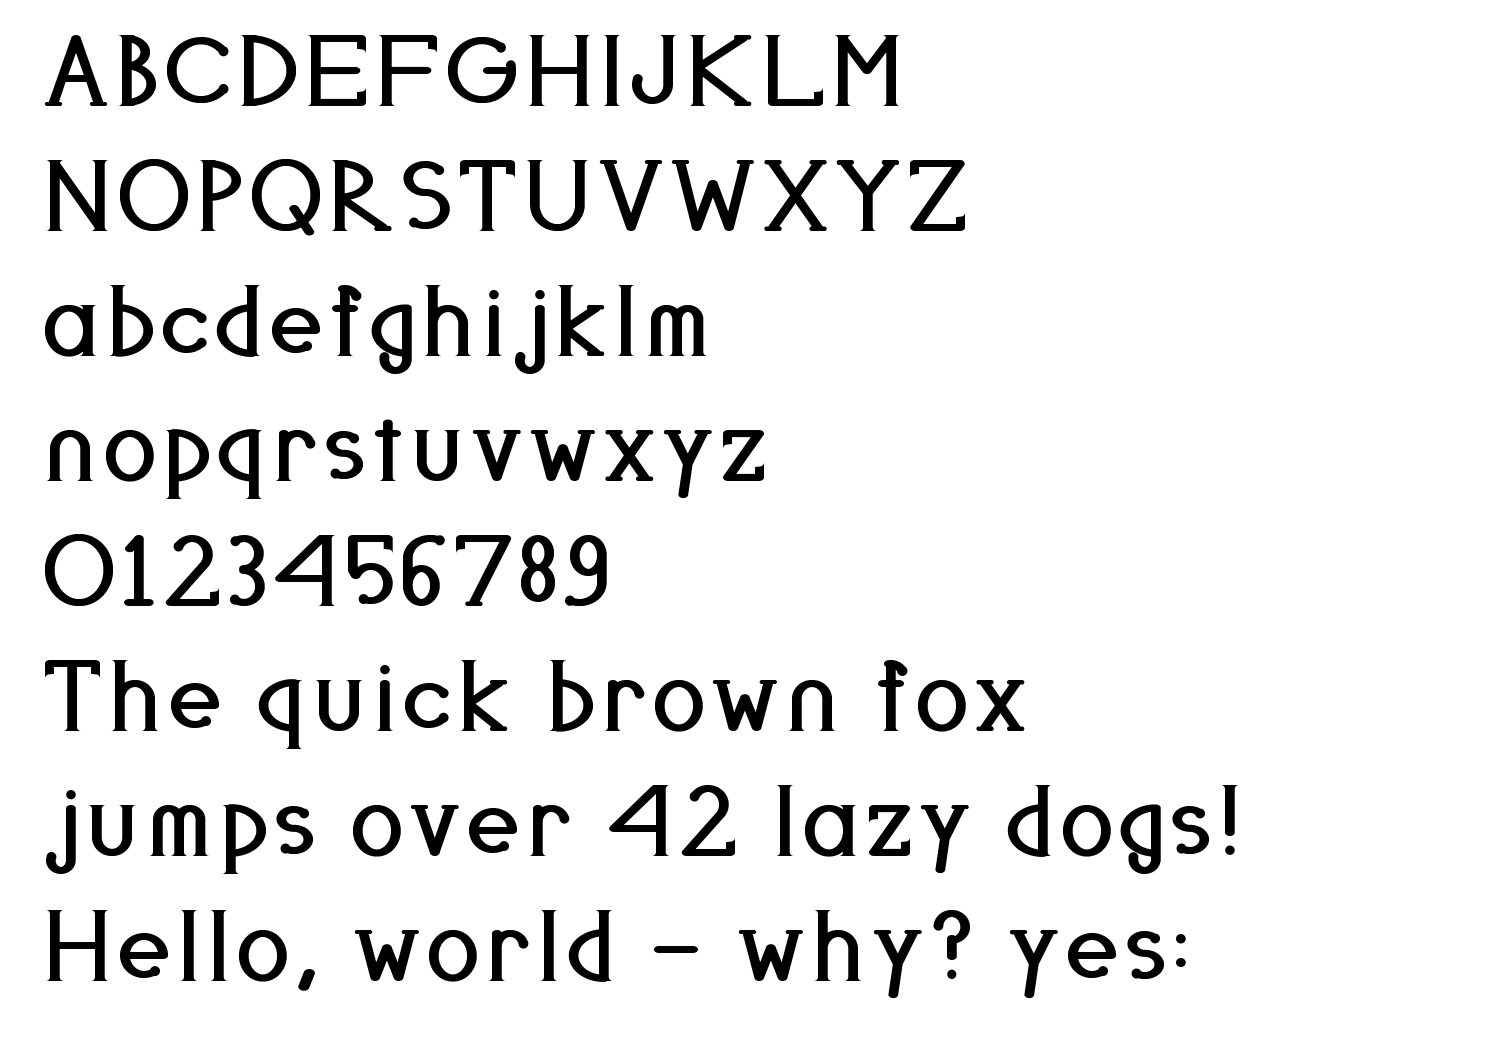
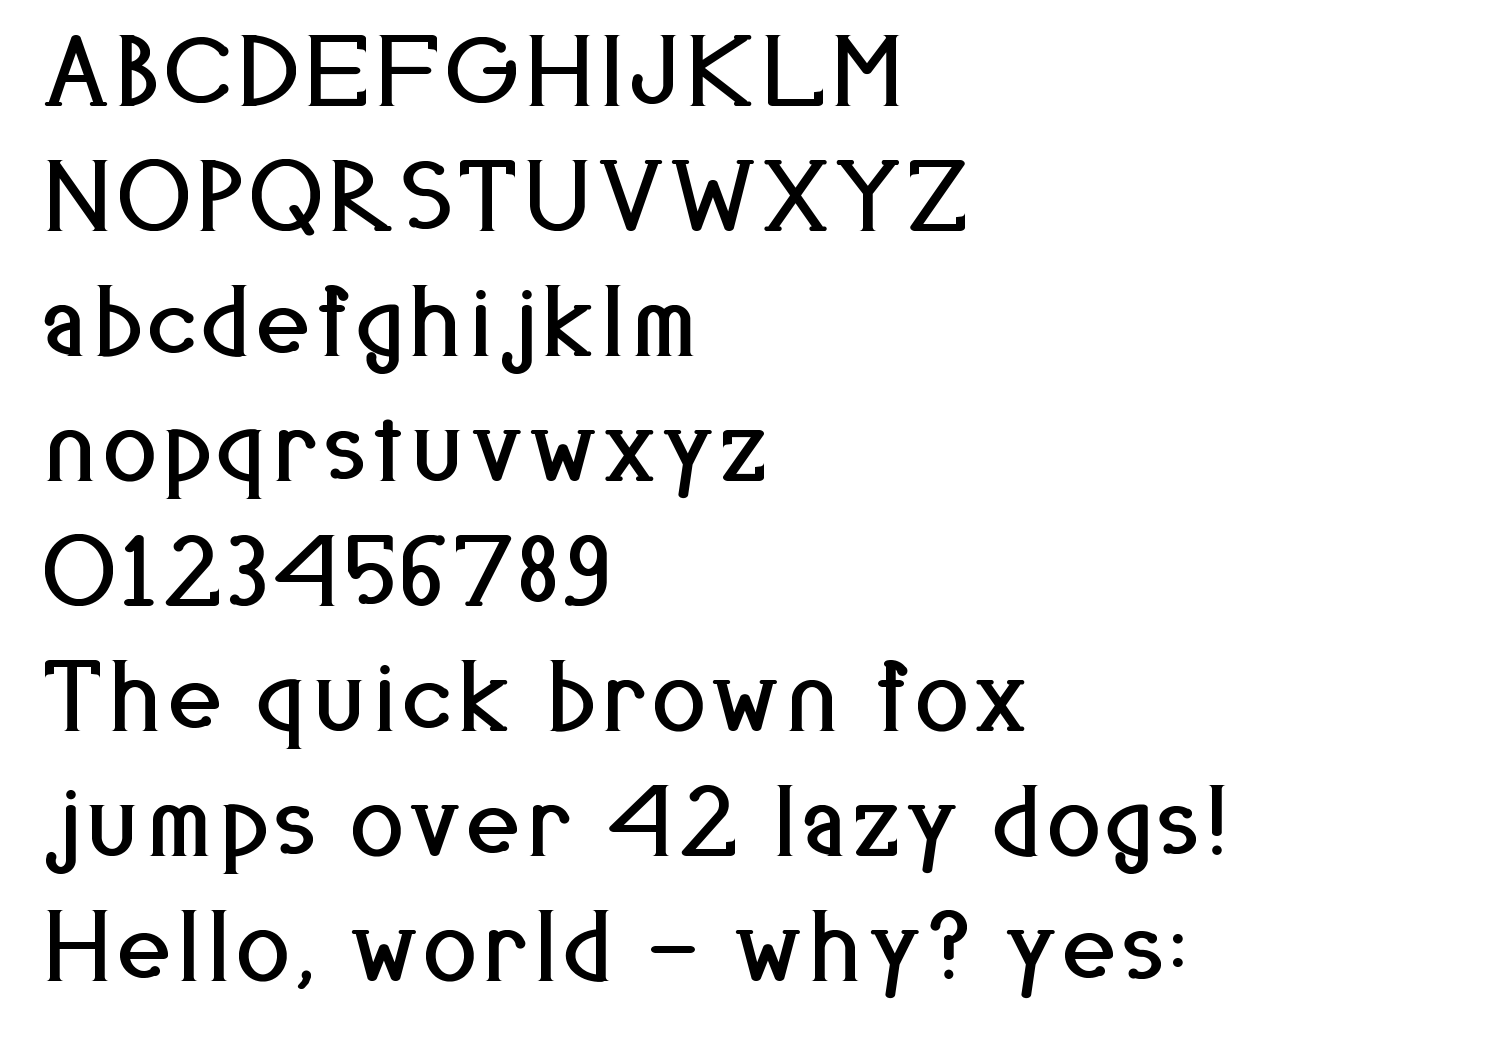
feat: two-storey a and teardrop comma for the serif face
The last two geometric-sans constructions clashing with the face's
legibility-group voice, replaced via serif-only skeleton overrides
(same (shapes, advance, terminals) contract and recording primitives,
so the pen/ball/foot machinery applies unchanged and no other face
moves):

- a: lower bowl + hood arching from the stem top, the text-face
  structure, instead of the shared skeleton's ring-plus-stem (Century
  Gothic's construction). The hood stops at 180 degrees -- sweeping
  further curled its ball terminal into the bowl and closed the
  aperture.
- comma: full-stop head (riding the same sunk round-dot machinery as
  the period) with a tail flicking down-left, replacing the blunt
  diagonal blob.

Claude-Session: https://claude.ai/code/session_01PRWeitVBn2rA76wPgaX5iH

diff --git a/fontgen/glyphs_serif.py b/fontgen/glyphs_serif.py
@@ -51,7 +51,15 @@ from shapely.geometry import LinearRing, LineString, Point
 
 from fontgen.glyphs import CMAP, SKELETONS
 from fontgen.metrics import BASE, STROKE
-from fontgen.primitives import finalize, record_strokes, union_all
+from fontgen.primitives import (
+    disc,
+    ellipse_band,
+    ellipse_pts,
+    finalize,
+    record_strokes,
+    stroke_union,
+    union_all,
+)
 from fontgen.serifs import PEN_THICK, PEN_THIN, serif_foot
 
 #: Extra vertical radius for closed rings, chosen so a capital ring's
@@ -143,6 +151,56 @@ def _serif(fn):
     return build
 
 
-GLYPHS = {name: _serif(fn) for name, fn in SKELETONS.items()}
+# ---- serif-only skeleton overrides ----------------------------------------
+#
+# The shared skeletons draw the letterforms every face inherits, but two of
+# them are GEOMETRIC constructions that fight the legibility-group voice the
+# pen gives this face. They're redrawn here -- same (shapes, advance,
+# terminals) contract, same recording primitives, so the pen, ball, and foot
+# machinery applies unchanged -- WITHOUT touching the skeletons the sans and
+# the other five faces build from.
+
+
+def _skeleton_a():
+    """Two-storey a. The shared skeleton's a is a full ring with a stem
+    (Century Gothic's construction); in a seriffed text face the a wants a
+    bowl in its lower half and a hood arching over from the stem top --
+    that structure, not the serifs, is what makes it read as a text-face a.
+    The hood's free end earns its ball from the standard free-curve rule.
+    """
+    stem_x = 420
+    shapes = [
+        stroke_union([[(stem_x, BASE), (stem_x, 350)]], STROKE),
+        # Lower bowl: bulges left from the stem, spanning roughly the
+        # bottom 60% of the x-height.
+        ellipse_band(stem_x, 150, 250, 140, 90, 270, STROKE),
+        # Hood: leaves the stem top at its own ellipse's 0-degree point,
+        # arcs over tangent to x-height, and stops just past horizontal on
+        # the left -- sweeping further down crowded its ball terminal into
+        # the bowl's upper-left and closed the aperture.
+        stroke_union(
+            [ellipse_pts(280, 345, 140, 135, 0, 180)], STROKE, cap_style="round"
+        ),
+    ]
+    terminals = [((stem_x, BASE), (stem_x, 350))]
+    return shapes, 520, terminals
+
+
+def _skeleton_comma():
+    """Teardrop comma: a full-stop head with a tail flicking down-left --
+    the print form -- replacing the shared skeleton's blunt diagonal blob.
+    The head rides the same dot machinery as the period (round, sunk to
+    the serif feet's optical baseline).
+    """
+    shapes = [
+        disc(250, 25, 52),
+        stroke_union([[(262, 5), (238, -55), (196, -102)]], 58, cap_style="round"),
+    ]
+    return shapes, 420, []
+
+
+_OVERRIDES = {"a": _skeleton_a, "comma": _skeleton_comma}
+
+GLYPHS = {name: _serif(_OVERRIDES.get(name, fn)) for name, fn in SKELETONS.items()}
 
 __all__ = ["CMAP", "GLYPHS"]
